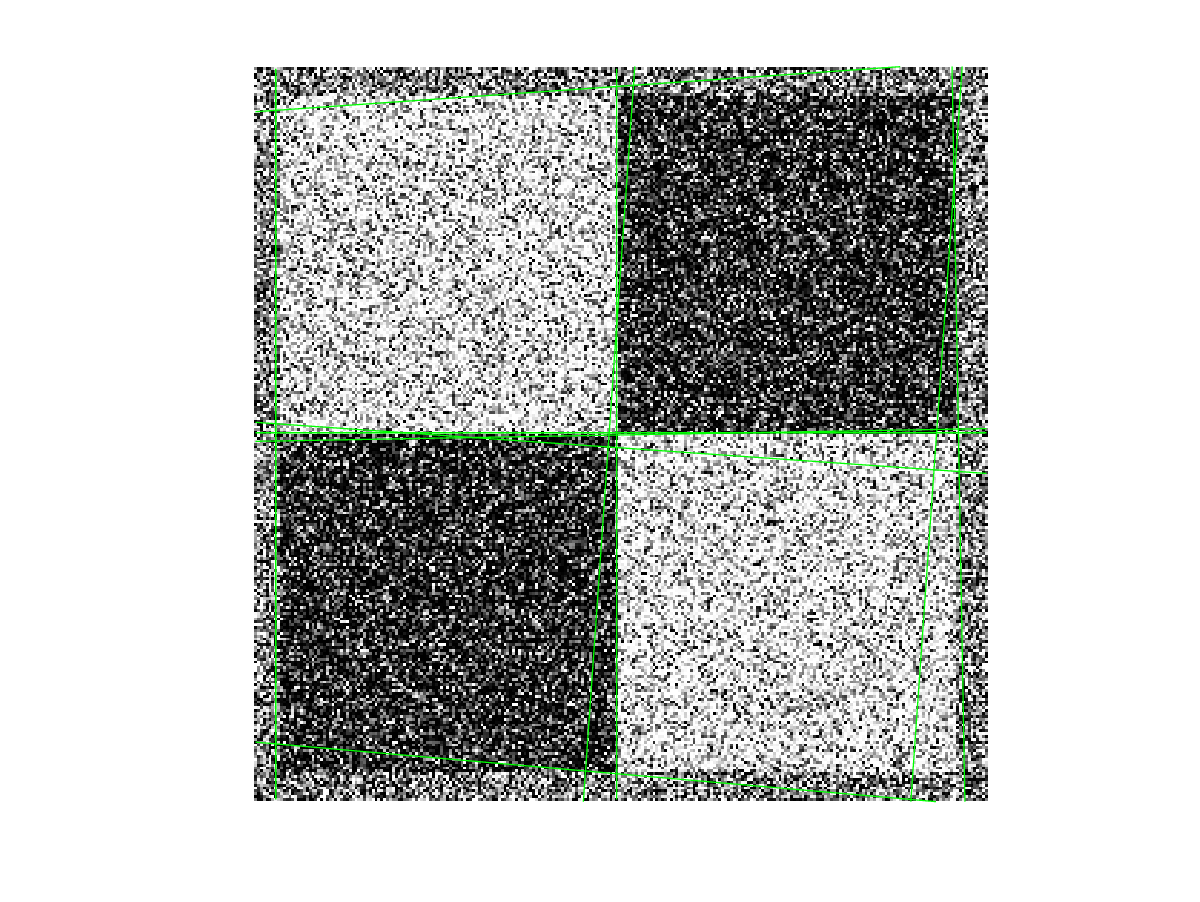
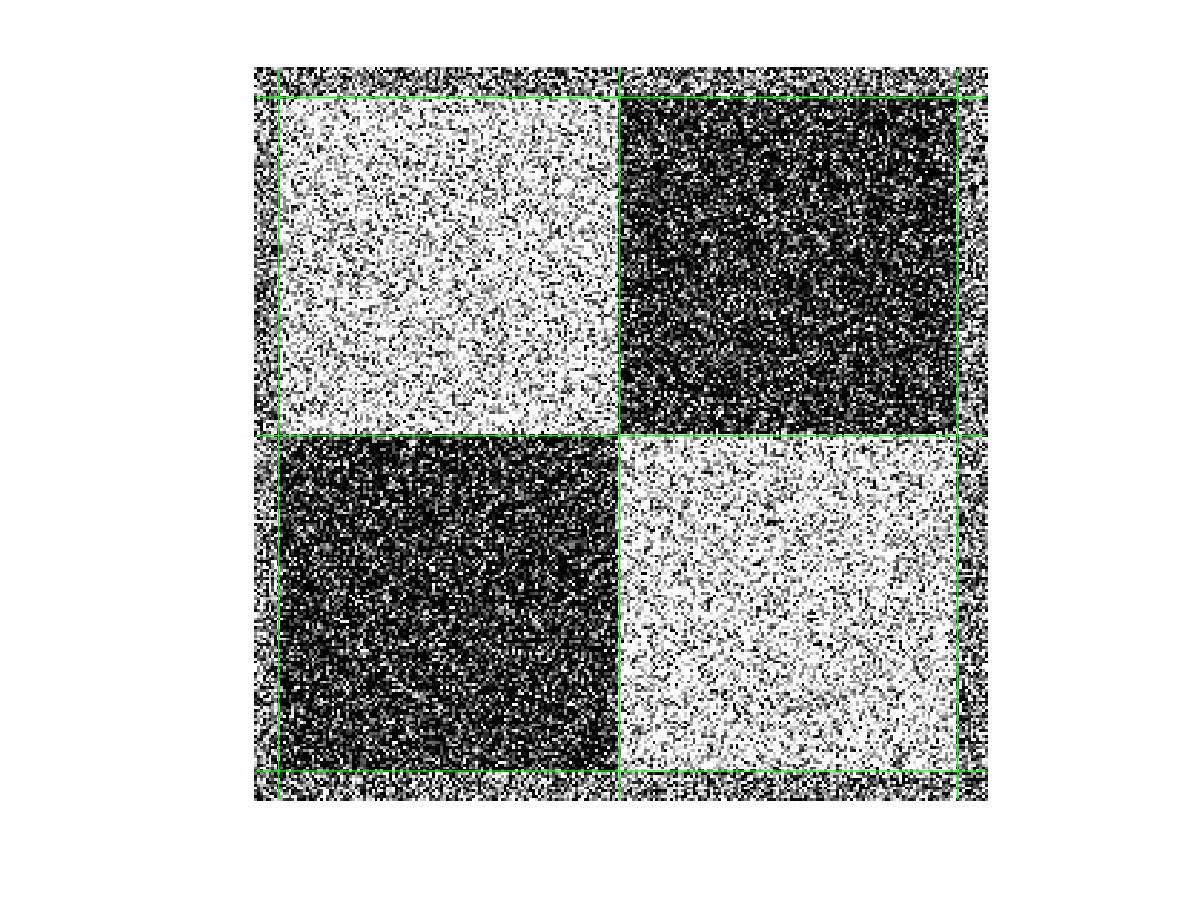
Add Hough application on noisy image

Changed region(s): [[0.2158, 0.0931, 0.8325, 0.8692], [0.74, 0.8381, 0.8325, 0.9002]]

diff --git a/Introduction to Computer Vision/ps1_octave/ps1.m b/Introduction to Computer Vision/ps1_octave/ps1.m
@@ -25,8 +25,8 @@ hough_lines_draw(img, 'ps1-2-c-1.png', peaks, rho, theta);
 
 %% 3-a
 img = imread(fullfile('input', 'ps1-input0-noise.png'));
-f_size = 25;
-f_sigma = 10;
+f_size = 20;
+f_sigma = 5;
 fil = fspecial('gaussian',f_size,f_sigma);
 filtered = imfilter(img,fil,'replicate');
 imwrite(filtered, fullfile('output', 'ps1-3-a-1.png'));
@@ -38,10 +38,10 @@ clean_edges = edge(filtered,'Canny');
 imwrite(clean_edges, fullfile('output', 'ps1-3-b-2.png'));
 
 %% 3-c
-[H, theta, rho] = hough_lines_acc(clean_edges);
+[H, theta, rho] = hough_lines_acc(clean_edges, 'Theta', [-90 0]);
 grayH = uint8(mat2gray(H) * 255);
 imshow(grayH, 'xData', theta, 'yData', rho);
-peaks = hough_peaks(H, 10); 
+peaks = hough_peaks(H, 10, 'Threshold', 0.25 * max(H(:)));
 hold on; plot(theta(peaks(:,2)), rho(peaks(:,1)),'rs'); hold off;
 saveas(1,'output/ps1-3-c-1.png');
 
